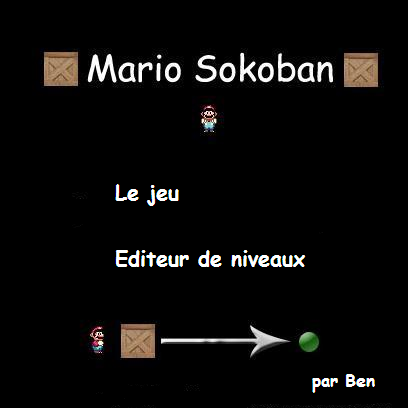
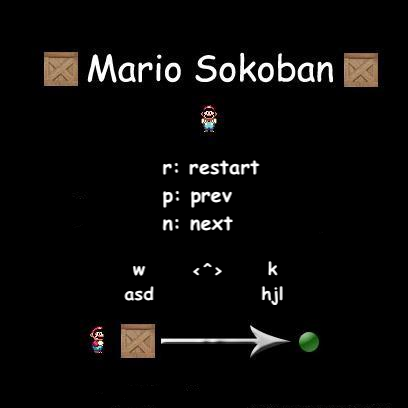
add menu & onload event

diff --git a/src/index.js b/src/index.js
@@ -1,7 +1,9 @@
 import * as g from './globals.js';
 import game from './game.js';
 import {nextPos, isColliding} from './geo.js';
+
 import '../static/css/style.css';
+import menu from '../static/images/menu.png';
 
 const FPS = 12;
 
@@ -39,6 +41,12 @@ function prevLevel() {
 		game.loadLevel(level);
 	}
 }
+
+const menuImg = new Image(408,408);
+menuImg.src = menu;
+window.onload = (e) => {
+	ctx.drawImage(menuImg, 0, 0, screen.width, screen.height);
+};
 
 window.addEventListener("keydown", e => {
 	if (game.isInMenu()) {

diff --git a/static/css/style.css b/static/css/style.css
@@ -1,3 +1,5 @@
 canvas {
 	border: 1px solid #000000;
+	width: 550px;
+	height: 550px;
 }
